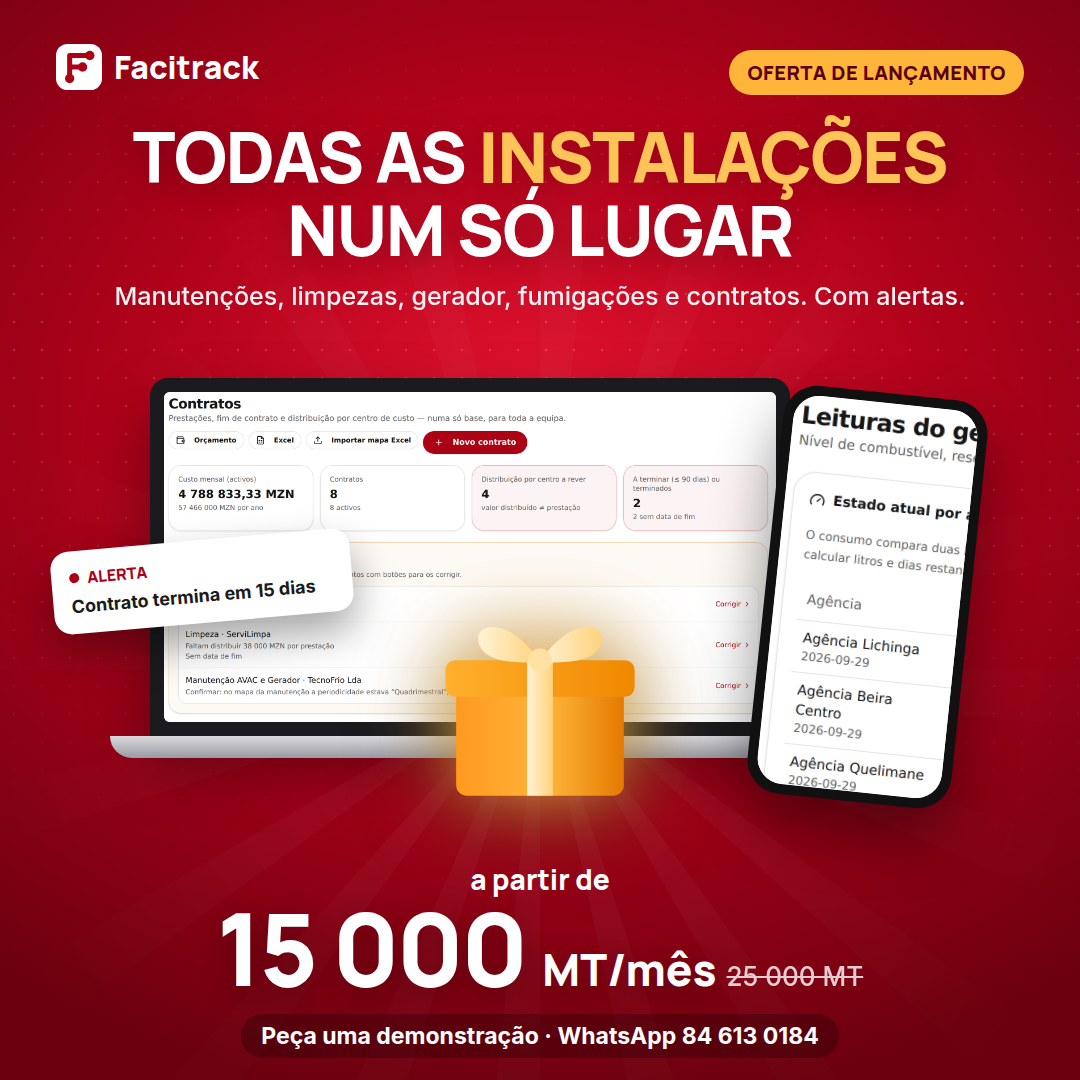
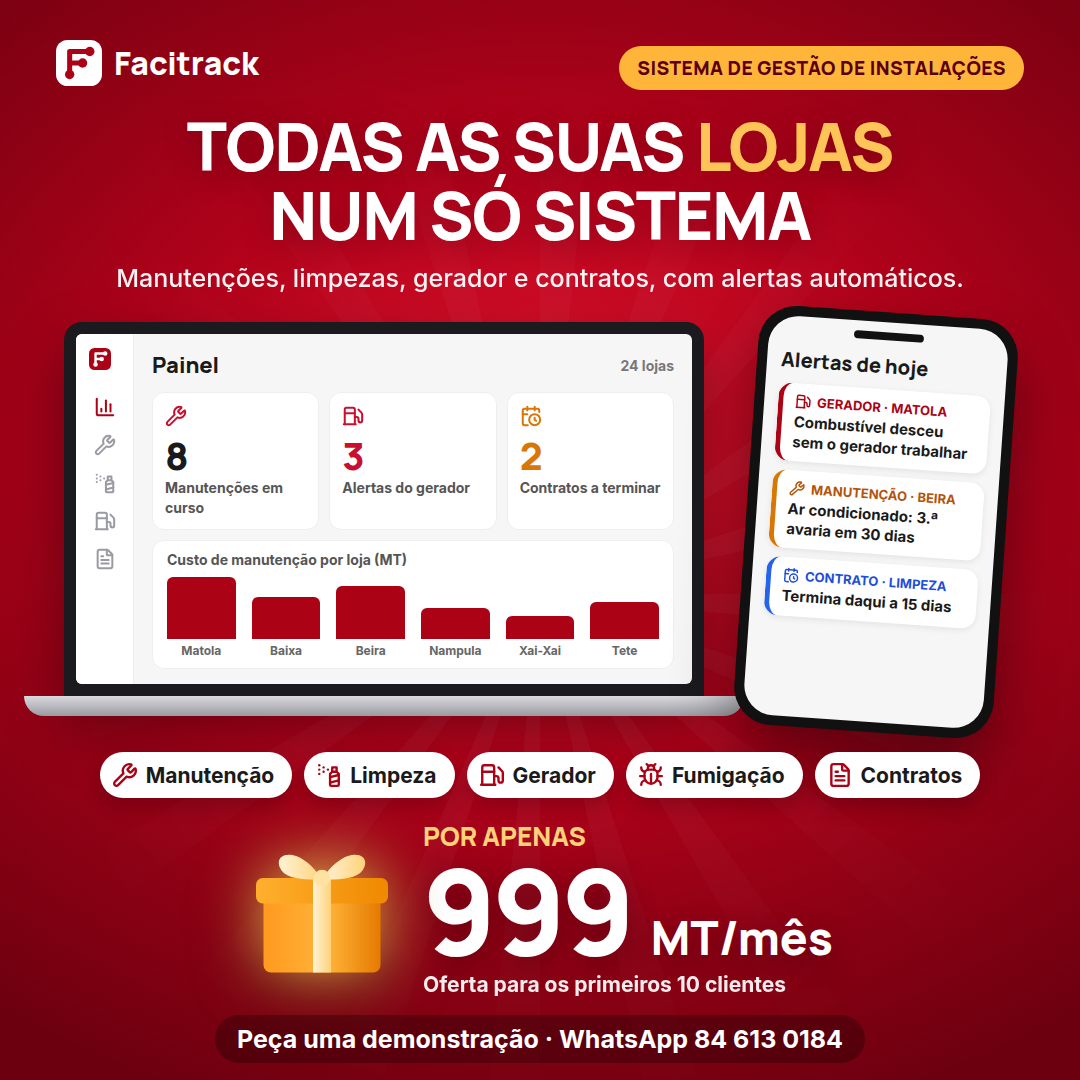
Publicações: ecrãs desenhados, ícones do que faz e preço de 999 MT/mês
Claude-Session: https://claude.ai/code/session_01Vuo8nn8g7uDFargv9U1qmC

diff --git a/vendas/lancamento/publicacoes/Textos.md b/vendas/lancamento/publicacoes/Textos.md
@@ -23,7 +23,7 @@ O Facitrack junta tudo num só lugar:
 ✅ Contratos que avisam antes de terminar
 ✅ Relatórios que mostram que fornecedor sai mais caro
 
-🎁 OFERTA DE LANÇAMENTO: a partir de 15 000 MT/mês (em vez de 25 000), durante 12 meses. Só para os primeiros 10 clientes.
+🎁 OFERTA DE LANÇAMENTO: só 999 MT/mês. Apenas para os primeiros 10 clientes.
 
 📲 Mande "QUERO VER" para o WhatsApp 84 613 0184 e marcamos uma demonstração de 20 minutos.
 
@@ -46,7 +46,7 @@ Com o Facitrack, cada leitura do gerador fica registada. A plataforma calcula o 
 
 Quem tem geradores em várias instalações sabe quanto isto custa por mês.
 
-🎁 Primeiros 10 clientes: a partir de 15 000 MT/mês durante 12 meses.
+🎁 Primeiros 10 clientes: só 999 MT/mês.
 📲 WhatsApp 84 613 0184. Mostro-lhe em 20 minutos.
 
 #Moçambique #Gerador #Combustível #Gestão #Facitrack
@@ -66,7 +66,7 @@ No fim do mês, os relatórios já estão feitos:
 📊 Que fornecedor cobra acima da média
 📊 Que equipamentos avariam sempre e já deviam ser substituídos
 
-🎁 Oferta de lançamento: a partir de 15 000 MT/mês para os primeiros 10 clientes.
+🎁 Oferta de lançamento: 999 MT/mês para os primeiros 10 clientes.
 📲 Mande mensagem: WhatsApp 84 613 0184
 
 #Moçambique #InteligênciaArtificial #Excel #Empresas #Facitrack
@@ -79,7 +79,7 @@ Em muitas empresas em Moçambique, a gestão das instalações tem sempre o mesm
 
 Por isso criei o Facitrack: uma plataforma moçambicana que junta manutenções, limpezas, combustível dos geradores, fumigações e contratos de todas as instalações num só lugar, com alertas automáticos e leitura de documentos por IA.
 
-Estou a abrir para os primeiros 10 clientes, com 40% de desconto durante 12 meses.
+Estou a abrir para os primeiros 10 clientes por apenas 999 MT/mês.
 
 Se gere lojas, agências, escolas, clínicas ou armazéns, mande-me mensagem. Mostro-lhe em 20 minutos.
 
@@ -90,7 +90,7 @@ Se gere lojas, agências, escolas, clínicas ou armazéns, mande-me mensagem. Mo
 1. "O gerador gastou combustível sem trabalhar? O Facitrack avisa no próprio dia. 📲 84 613 0184"
 2. "Ainda a passar ordens de trabalho do papel para o Excel? Tire uma foto, a IA preenche. 📲 84 613 0184"
 3. "O contrato de limpeza acabou e ninguém reparou? O Facitrack avisa 90 dias antes."
-4. "🎁 Restam X vagas com 40% de desconto. Facitrack, gestão de instalações. 📲 84 613 0184"
+4. "🎁 Restam X vagas a 999 MT/mês. Facitrack, gestão de instalações. 📲 84 613 0184"
 
 ---
 
